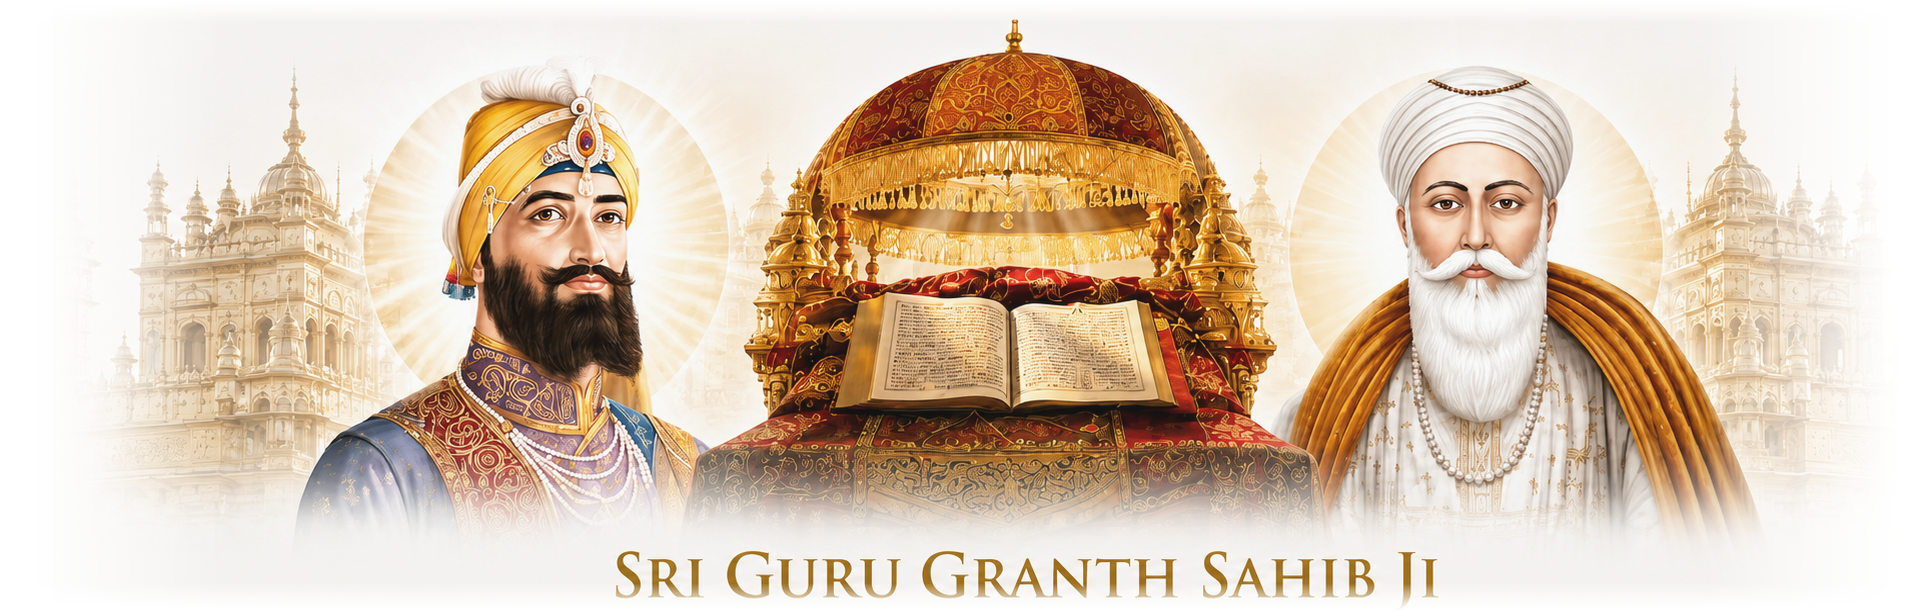
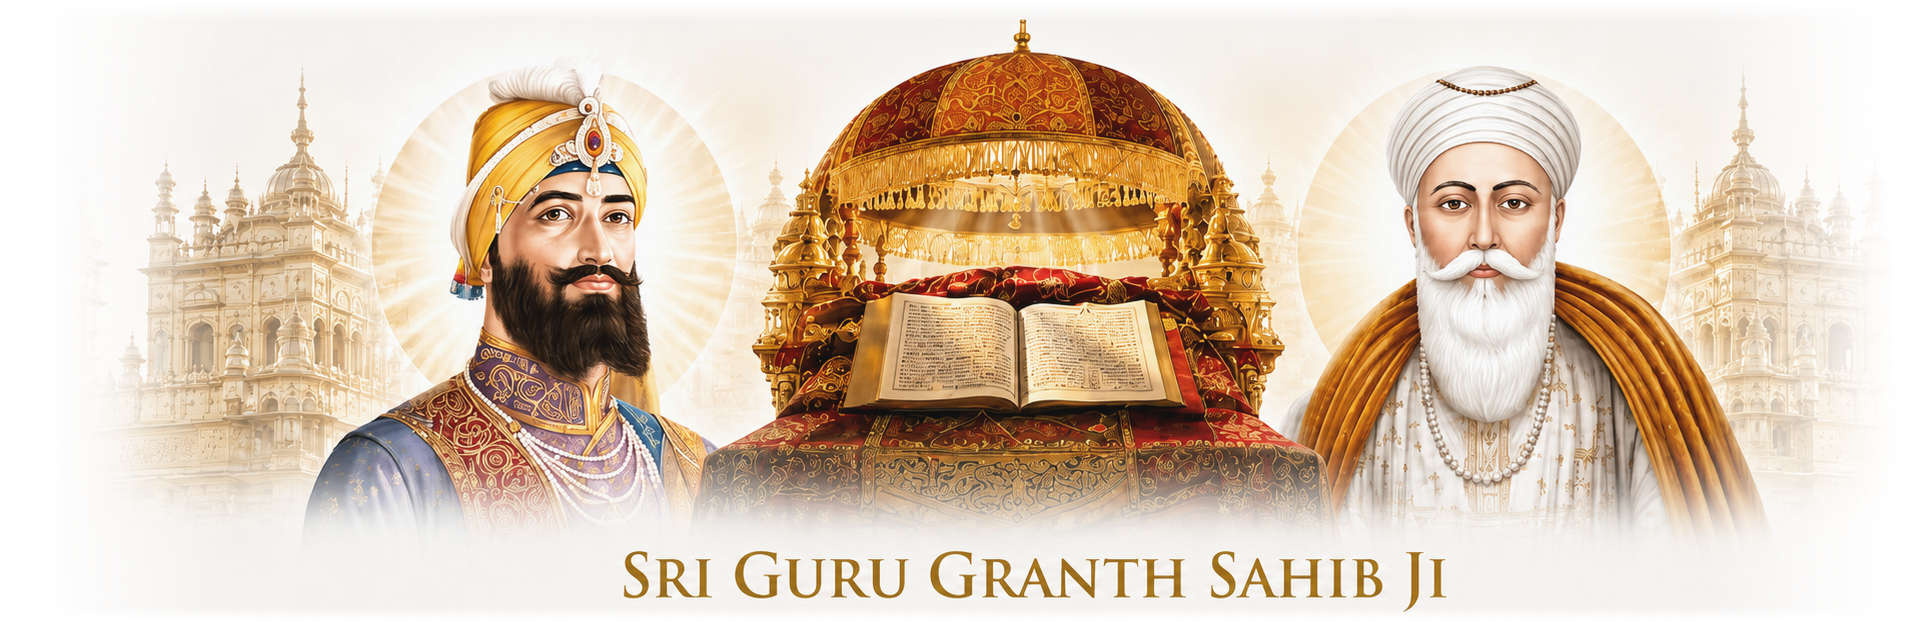
fix: master hero optical alignment - 62px right shift, full 'Sri Guru Granth Sahib Ji' title visible, 24px gap before Nitnem bar, v10.71.0

diff --git a/frontend/sw.js b/frontend/sw.js
@@ -12,7 +12,7 @@
  * ═══════════════════════════════════════════════════════════════════════════════
  */
 
-const CACHE_VERSION = 'anhad-v10.70.0'; // v10.50.0: Perfected 16px floating gap between mini-player and bottom tab bar, whisper-soft pastel white cushion clay cards, and instant pre-cached navigation.
+const CACHE_VERSION = 'anhad-v10.71.0'; // v10.50.0: Perfected 16px floating gap between mini-player and bottom tab bar, whisper-soft pastel white cushion clay cards, and instant pre-cached navigation.
 // v10.29.0: Root-caused why fixes kept looking reverted on both localhost AND the deployed site despite correct source: .js/.css requests (rule 4 below) used cacheFirst(), which NEVER revalidates a hit — once any browser fetched e.g. nav-glass.css once, it kept serving that exact response forever regardless of CACHE_VERSION bumps, until the whole detect-new-SW/install/activate/reload chain happened to complete for that specific client. .html already used staleWhileRevalidate for exactly this reason (see the v10.13-v10.22 history below) but .js/.css never did. Moved .js/.css to staleWhileRevalidate too (new rule 3c) — verified live by injecting a fake stale response into an active client's cache and confirming the SECOND fetch (not a reload, not a cache clear, ~1s later) automatically served the real current file. Also: de-clobbered window.__anhadPageInit — trendora-app.js and homepage-data.js registered the identical 4 keys for Home and the second one to load silently overwrote the first, so only one of the two intended repopulation paths ever actually ran; now both compose, with the double-render debounce moved inside refreshHomeForSpa itself so having two live trigger paths again can't reintroduce the flash. Shell script loads that fail now retry once and log clearly instead of onerror=resolve silently treating a failed fetch as success forever. Added missing cache-busting query params to smooth-navigation.js/homepage-data.js. Live-measured the reported Home bottom gap on a guaranteed-fresh load: padding-bottom computes to exactly 110px, on-screen gap measures 109.67px — matches source exactly, confirming the gap itself was never a code bug, only ever a symptom of the same stale-cache issue this version fixes at the root.
 // v10.28.0: Decreased excessive bottom padding-bottom from 160px to 110px in nav-glass.css, and upgraded the Nitnem, Sehaj Paath, and Hukamnama practice cards with premium 3D soft claymorphism (ambient soft colored drop shadows + inset light reflection and shadow highlights) in both Light & Dark modes.
 // v10.26.0: Found the REAL remaining cause of the Home/Favorites "two-time flash" the user kept reporting even after v10.23/v10.24 — a CSS entrance animation (.page-enter, anhad-core.css), applied by JS via smooth-navigation.js's unconditional post-swap AnhadCore.init() -> initTransition() call, on an #app container that was already fully painted and visible. Adding a class that newly matches an `animation` rule restarts it regardless of how it's added — so this genuinely replayed the 0.48s "fade up from below" entrance on top of content the user was already looking at, on every single arrival at Home/Favorites. Insights never showed this because its own swapped content (#mainContent) already ships `page-enter` baked into its static HTML, so the later JS class-add is a true no-op there (class already present). Fix: added `page-enter` to Home's and Favorites' own #app markup, matching Insights' pattern exactly, instead of touching the JS trigger at all — verified via CDP by sampling #app's actual computed opacity every 25ms across 5 rapid Home<->Favorites round trips (the exact "gets worse the more I test" scenario reported): 172 samples, zero re-triggers, zero errors. Also fixed the Learning page's Daily Gursikhi Quiz re-prompting the same already-answered question on every revisit — it had no persistence at all; now stores {date, selectedIdx} in localStorage (en-CA date, matching the app's existing per-day convention) and restores the answered state instead of a fresh clickable question until the next calendar day.

diff --git a/frontend/index.html b/frontend/index.html
@@ -4450,14 +4450,14 @@
       color: #94A3B8 !important;
     }
   </style>
-  <!-- ANHAD MASTER VISUAL OVERRIDES v10.70.0 -->
+  <!-- ANHAD MASTER VISUAL OVERRIDES v10.71.0 -->
   <style id="anhad-master-overrides">
     /* ════════════════════════════════════════════════════════════════
-       1. GREETING SECTION & CLEAN PADDING BEFORE NITNEM BAR
+       1. GREETING SECTION & ENLARGED GAP BEFORE NITNEM BAR
        ════════════════════════════════════════════════════════════════ */
     .greeting {
       margin-top: -6px !important;
-      margin-bottom: 16px !important;
+      margin-bottom: 24px !important;
       padding-bottom: 0px !important;
       position: relative !important;
       overflow: visible !important;
@@ -4480,7 +4480,7 @@
     }
 
     /* ════════════════════════════════════════════════════════════════
-       2. LIGHT MODE HERO ARTWORK — CENTERED WITH INTEGRATED TITLE
+       2. LIGHT MODE HERO ARTWORK — RIGHT-SHIFTED, FULL TITLE VISIBLE
        ════════════════════════════════════════════════════════════════ */
     .greeting__hero-banner {
       display: flex !important;
@@ -4508,21 +4508,21 @@
       width: 100% !important;
       max-width: 600px !important;
       height: auto !important;
-      aspect-ratio: 1906 / 612 !important;
+      aspect-ratio: 1906 / 622 !important;
       object-fit: contain !important;
       display: block !important;
       margin: 0 auto !important;
-      transform: translateX(8px) !important;
+      transform: translateX(10px) !important;
       image-rendering: -webkit-optimize-contrast !important;
       image-rendering: high-quality !important;
     }
 
-    /* Gap before the Nitnem progress banner */
+    /* Beautiful clean gap before the Nitnem progress banner */
     .progress-inline,
     #nitnemTrackerCard,
     .nitnem-progress {
-      margin-top: 16px !important;
-      margin-bottom: 14px !important;
+      margin-top: 24px !important;
+      margin-bottom: 16px !important;
     }
 
     /* Dark Mode: Hide Light Hero */
@@ -5143,7 +5143,7 @@
         <div class="greeting__hero-banner" id="greetingHeroBanner" aria-label="Sacred Guru Darbar">
           <picture id="greetingHeroPicture">
             <source id="greetingHeroSource" srcset="guruimages/guru-greeting-hero.webp" type="image/webp">
-            <img class="greeting__hero-artwork" id="greetingHeroArtwork" src="guruimages/guru-greeting-hero.webp" alt="Sri Guru Granth Sahib Ji with Sri Guru Gobind Singh Ji and Sri Guru Nanak Dev Ji" width="1906" height="612" loading="eager" fetchpriority="high" decoding="async">
+            <img class="greeting__hero-artwork" id="greetingHeroArtwork" src="guruimages/guru-greeting-hero.webp" alt="Sri Guru Granth Sahib Ji with Sri Guru Gobind Singh Ji and Sri Guru Nanak Dev Ji" width="1906" height="622" loading="eager" fetchpriority="high" decoding="async">
           </picture>
         </div>
 

diff --git a/frontend/css/trendora-premium.css b/frontend/css/trendora-premium.css
@@ -2087,11 +2087,40 @@ a:active {
   margin-bottom: var(--space-3);
 }
 
+/* Soft circular background behind the icon - NO HARD SQUARE */
+.practice-card__ring::before {
+  content: '';
+  position: absolute;
+  inset: 8px;
+  border-radius: 50%;
+  background: linear-gradient(135deg, rgba(255, 255, 255, 0.8) 0%, rgba(255, 255, 255, 0.5) 100%);
+  z-index: 0;
+  transition: all 0.3s ease;
+}
+
+.practice-card:hover .practice-card__ring::before {
+  background: linear-gradient(135deg, rgba(255, 255, 255, 0.95) 0%, rgba(255, 255, 255, 0.7) 100%);
+  transform: scale(1.05);
+}
+
+/* Dark mode - softer background */
+.dark-mode .practice-card__ring::before,
+[data-theme="dark"] .practice-card__ring::before {
+  background: linear-gradient(135deg, rgba(255, 255, 255, 0.08) 0%, rgba(255, 255, 255, 0.03) 100%);
+}
+
+.dark-mode .practice-card:hover .practice-card__ring::before,
+[data-theme="dark"] .practice-card:hover .practice-card__ring::before {
+  background: linear-gradient(135deg, rgba(255, 255, 255, 0.12) 0%, rgba(255, 255, 255, 0.05) 100%);
+}
+
 .practice-card__ring svg {
   width: 60px;
   height: 60px;
   transform: rotate(-90deg);
   filter: drop-shadow(0 2px 4px rgba(0, 0, 0, 0.05));
+  position: relative;
+  z-index: 1;
 }
 
 .practice-card__ring-bg {
@@ -2125,6 +2154,7 @@ a:active {
   display: flex;
   align-items: center;
   justify-content: center;
+  z-index: 2;
 }
 
 .practice-card__ring-icon svg {
@@ -2132,6 +2162,7 @@ a:active {
   height: 24px;
   color: var(--text-secondary);
   opacity: 0.75;
+  filter: drop-shadow(0 1px 2px rgba(0, 0, 0, 0.1));
 }
 
 .practice-card--nitnem .practice-card__ring-icon svg {

diff --git a/frontend/css/responsive-fix.css b/frontend/css/responsive-fix.css
@@ -198,6 +198,8 @@ html.dark-mode .greeting__dark-carousel-container,
     padding: 0 !important;
     margin-top: -10px !important;
     margin-bottom: 0 !important;
+    position: relative !important;
+    transform: translateX(25px) !important;
 }
 
 /* Portrait Slider Container */
